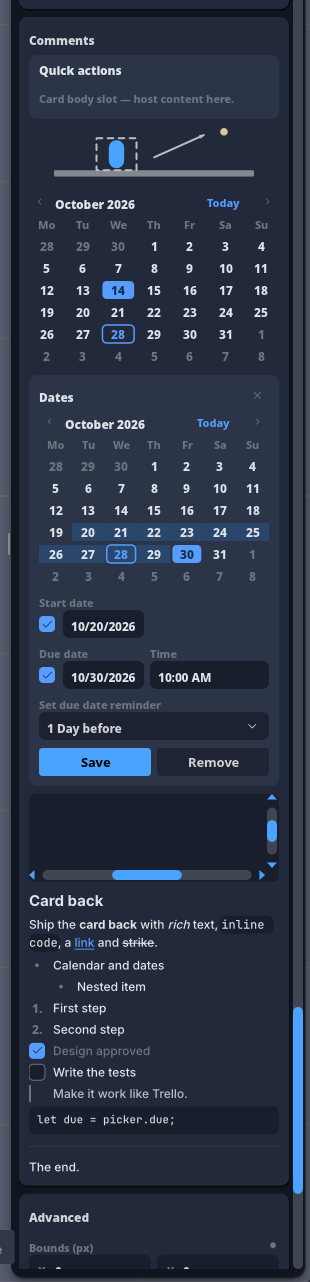
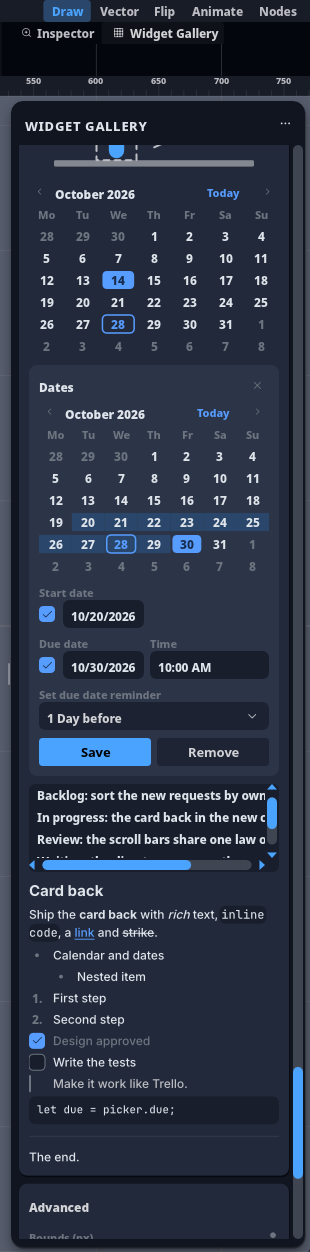
docs(NovaUI): handoff da galeria com o smoke do dono 03/11, as catracas subidas para o integrador julgar e a saída dos portões; foto g6 nova e doc 08 com g6, g7 e g7b

diff --git a/docs/CartoesUI/handoffs/HANDOFF_line_NovaUI_2026-11-03_GALERIA.md b/docs/CartoesUI/handoffs/HANDOFF_line_NovaUI_2026-11-03_GALERIA.md
@@ -1,9 +1,9 @@
 # Handoff — linha `NovaUI`: fundação dos cartões + Widget Gallery em cartões (03/11/2026)
 
-Worktree `Worktrees/line-NovaUI`, branch `line/NovaUI`, HEAD `6e402012fc`, merge-base com `main` = `3a3896a7ab`
-(27 commits à frente). **Não integrada, sem push.** Leitor: a próxima LLM / o integrador.
+Worktree `Worktrees/line-NovaUI`, branch `line/NovaUI`, HEAD do código `60aaaa938d` + o commit deste handoff, merge-base com `main` = `3a3896a7ab`
+(35 commits à frente, contando o deste handoff). **Não integrada, sem push.** Leitor: a próxima LLM / o integrador.
 Plano-mãe: [06](../06_COMO_PORTAR_PARA_O_MAIN.md) §3 · desenho da galeria: [08](../08_galeria_em_cartoes.md).
-O diff contra o merge-base: 304 ficheiros, +21 985 −1 713 (inclui docs e fotos).
+O diff de `60aaaa938d` contra o merge-base: 344 ficheiros, +25 238 −1 836 (inclui docs e fotos).
 
 ## 1 — O que a linha entrega
 
@@ -19,7 +19,7 @@ O diff contra o merge-base: 304 ficheiros, +21 985 −1 713 (inclui docs e fotos
    Trim path, Solo, Gradient; URLs em 08 §1.4) e **11 cartões de sempre** com título de ferramenta.
    - `PH2D_CARDS=0` = a janela flutuante antiga.
    - `PH2D_GALLERY_SMOKE=1` abre a galeria já visível; `PH2D_GALLERY_SMOKE_SCROLL=<px>` segura a rolagem;
-     `PH2D_GALLERY_SMOKE_SIDE=1` abre a linha do efeito. Fotos `maquete/g1..g5`.
+     `PH2D_GALLERY_SMOKE_SIDE=1` abre a linha do efeito. Fotos `maquete/g1..g7b`.
 3. **A fundação continua um DAG** — curas de `7439627882` (o porte fechava três ciclos de módulos de topo e subia
    a catraca widget→interaction 43→44):
    - interaction→panel: a lista publica as linhas (`WidgetStore::set_color_style_rows`), o despacho só lê o store;
@@ -42,11 +42,12 @@ O diff contra o merge-base: 304 ficheiros, +21 985 −1 713 (inclui docs e fotos
 
 | Crate | Porquê |
 |---|---|
-| `ph2d-editor-core` (127 ficheiros) | núcleo dos cartões (porte), partição de `cards.rs`, curas de DAG, `showcase/` |
+| `ph2d-editor-core` (145 ficheiros) | núcleo dos cartões (porte), partição de `cards.rs`, curas de DAG, `showcase/` |
 | `ph2d-tokens`, `ph2d-panel-tokens`, `docs/design/tokens.json`, `tools/ph2d-widget-sync` | tokens `Card*`/`Kanban*`, `derive::card_tone`, bloco gerado do `widget/` |
-| `ph2d-i18n` | `cartoes.rs`, `galeria.rs` (180 chaves), `galeria_reais.rs` (91), `galeria_rive.rs` (36); só inglês |
+| `ph2d-i18n` | `cartoes.rs`, `galeria.rs` (180 chaves), `galeria_reais.rs` (91), `galeria_rive.rs` (36), `galeria_avancado.rs` (46); só inglês |
 | `ph2d-node-motion-verlet-rope` | `corda.rs` (+72 linhas, para o `card-rope`) |
-| `ph2d-panel-painter-layers`, `ph2d-panel-registry-init` | só testes e a secção que quebra o nome (ver §4) |
+| `ph2d-panel-painter-layers`, `ph2d-panel-registry-init` | só testes e a secção que quebra o nome (ver §4 e §4.1) |
+| `ph2d-app-kanban` | a cura do corte de 1 ulp nos chips da frente (ver §4.2); o aspecto aprovado não muda |
 | `Cargo.lock` | crates novas (regenerar, nunca resolver à mão) |
 
 Contratos congelados de CLAUDE.md §6 (`NodeOp`/`OpResolver`/`NodeManifest`, `Tool`, `Vector`): **nenhum tocado**
@@ -55,8 +56,8 @@ Contratos congelados de CLAUDE.md §6 (`NodeOp`/`OpResolver`/`NodeManifest`, `To
 
 ## 3 — Ids, chaves e ícones novos
 
-- `crates/ph2d-panel-widget-gallery/src/`: `ids.rs` 145 · `ids_reais.rs` 156 · `ids_rive.rs` 33 constantes `pub`.
-- `ph2d-i18n`: 180 + 91 + 36 chaves `panel.widget_gallery.*` (+ `cartoes.rs` 111, do porte).
+- `crates/ph2d-panel-widget-gallery/src/`: `ids.rs` 145 · `ids_reais.rs` 156 · `ids_rive.rs` 33 · `ids_avancado.rs` 22 constantes `pub`.
+- `ph2d-i18n`: 180 + 91 + 36 + 46 (`galeria_avancado.rs`) chaves `panel.widget_gallery.*` (+ `cartoes.rs` 111, do porte).
 - `docs/design/icons/card-*.svg`: **40** (28 no porte, 12 acrescentados depois, p.ex. interp-linear/cubic/hold e capsule). Nenhum glifo emprestado: o campo mostra a letra da grandeza (08 §1.3).
 
 ## 4 — Listas e catracas BAIXADAS (medidas, nunca subidas)
@@ -64,8 +65,46 @@ Contratos congelados de CLAUDE.md §6 (`NodeOp`/`OpResolver`/`NodeManifest`, `To
 - `cada_nome_deste_painel_cabe_na_coluna_da_seccao` (painter-layers): coluna 220: 12 → 1; coluna 245: 1 → 0;
   a régua passou a perguntar à secção do PRODUTO (`seccoes::seccao`).
 - Degrau estreito (`1f9360db07`): `inspector` 86 → 84 cortes (letras 84 → 82); `tokens` 2 → 1; `color_equalization` 2 → 1.
-- Nenhuma lista cresceu. Os testes de `a_docked_panel_never_reaches_the_drawing_area` e `a_panel_paints_where_its_tab_says`
+- Nestas curas nenhuma lista cresceu; as subidas estão na §4.1. Os testes de `a_docked_panel_never_reaches_the_drawing_area` e `a_panel_paints_where_its_tab_says`
   passaram a ler a declaração D24 (lista que FLUTUA) com controlo (`listas >= 1`).
+
+### 4.1 — Catracas SUBIDAS, para o integrador julgar
+
+⚠ A §4 fala das listas que BAIXARAM. Estas duas subiram, em `e0572d8336`
+(`crates/ph2d-panel-registry-init/tests/it/quantas_entradas_tem_cada_painel.rs`, `a_altura_de_abertura_de_um_painel_so_encolhe`).
+Nenhuma é secção a nascer aberta; a galeria não está nessa tabela e não é a causa.
+
+| Painel | De → para | Porquê | Grau de prova |
+|---|---|---|---|
+| `inspector` | 1488 → 1507 | a Noto de fábrica (D11) quebra uma legenda em mais uma linha | **medido**: sonda das duas fontes na mesma corrida, Inter 1488 × Noto 1507 |
+| `painter_layers` | 1593 → 1618 | o nome que não cabe quebra em vez de cortar (`1787b8c3ba`), um passo (`1 × ROW_H_PX`) | **atribuído por leitura do commit**, sem medição separada da causa |
+
+- A cura alternativa do `inspector` seria encurtar a legenda; a do `painter_layers` devolveria o corte. Julgue-as.
+- `tokens` voltou a 2302 sem mexer no número: os 3 `card-*` dobram com a família Kanban (`+75 = 3 × 25`).
+- **Lista que cresceu:** `PAINEIS_COM_ID_DERIVADO` ganhou `widget_gallery`. A forma foi olhada antes: os dois botões sem
+  nome são `cards_estilos::botao_de(CARD_FILL)` e `botao_de(CARD_STROKE)`, o ⠿ dos estilos de cor (os dois ids conferem
+  pelo FNV). Vieram com o porte e só a corrida inteira da `ph2d-panel-registry-init` os acusou.
+- **Segunda porta do nome curada:** a lista da galeria lê `WidgetGalleryPanel::TITLE.tr()`, não `tr("panel.widget_gallery.title")`.
+- **Excepção retirada:** `physics` saiu de `COLUNAS_DECLARADAS_POR_PAINEL` em `onde_comeca_o_valor.rs`
+  (`dentro_de_um_troco`): mede 1 coluna (`x = 26`, a grelha), a lista é uma igualdade e menos é acertar.
+  `widget_gallery` fica em 3.
+
+### 4.2 — O vermelho do Kanban: `d14_field_names_are_never_cut_while_they_fit`
+
+- **Medido:** no merge-base verde (árvore exportada, alvo próprio). No HEAD, Inter × Noto no mesmo processo:
+  Inter `Priority: Option 3` inteiro (orçamento `97,56445` = texto `97,56445`); Noto `Priority: Option…` (orçamento
+  `98,12399` × texto `98,124`, **1 ulp**). ⇒ os edits de `card_ink`/`date_picker`/`paint_card` de `d1c9126d41` não
+  são a causa: a Noto (D11) só destapou o defeito.
+- **Mecanismo:** o chip da frente mede-se (`texto + respiro`) e o pintor recalculava o orçamento por subtracção
+  (`r.x + r.w − respiro − tx`), que perde 1 ulp conforme onde a medida cai. A elisão compara `<=` e corta. Era latente
+  em qualquer fonte: com a cura desligada a varredura acusa as 10 primeiras opções na Noto e 7 na Atkinson.
+- **Cura, na lógica de encaixe do próprio Kanban:** `FieldAt::room` leva ao pintor a largura MEDIDA; o chip de rótulo
+  ganhou `front::chip_room` (a mesma família, mesma subtracção). Geometria e aspecto iguais; o nome inteiro é o que a
+  Noto já pedia.
+- **Gates novos:** `d14_a_chip_never_cuts_the_text_that_sized_it_in_any_font` (varre `UiFont::ALL` × 30 opções, porque
+  o ulp depende da medida) e `a_label_chip_never_budgets_less_than_the_name_that_sized_it` (com controlo).
+- **Provas de mutação (4/4 sangraram):** `room` volta à subtracção (`d14_field_names` + a varredura) · `chip_room` volta
+  à subtracção · `hugging_rects` sem o `trim_end` · sem o `paint_demo_rows`.
 
 ## 5 — Lacunas conhecidas
 
@@ -73,12 +112,34 @@ Contratos congelados de CLAUDE.md §6 (`NodeOp`/`OpResolver`/`NodeManifest`, `To
 - Camera: o alvo por arrastar da Hierarchy é só uma **dica** na galeria.
 - Números de Brush, Image, Audio e Script são **fictícios** (os do código real estão no 08 §1.3).
 - `CAN_FLOAT = false` faz o `PH2D_CARDS=0` mostrar também uma aba.
+- **Metadata do Advanced sem entradas aninhadas:** nenhuma entrada de exemplo pede filhos, e o nesting não entrou.
+- **Coluna estreita:** Metadata e Custom properties põem o valor na linha de baixo, em vez de cortar. É a decisão, não
+  uma falha, mas a coluna estreita fica mais alta.
+- **As barras da amostra do Comments não são interactivas:** no cartão mostram a rolagem `0` sobre o tamanho real das
+  linhas (`demo_rows_content`); arrastá-las não mexe nas linhas. Rolar de verdade é o widget nas listas reais.
 - **Mola do Kanban NÃO extraída** (D19): `ph2d-card-stack` existe, mas o `ph2d-app-kanban` ainda tem a sua
   própria — família 3 de 06 §3 pendente.
 - `card-rope` portado **sem consumidor** até ao Inspector/Bones.
 - Ainda por portar (linhas seguintes): famílias 5 (Bones) e 6–10 (Inspector, estilos de cor do Vector, cola da shell,
   cenas de smoke, testes `o_*`/`os_*`) — prompts em [`../PROMPT_janela_Bones.md`](../PROMPT_janela_Bones.md) e
   [`../PROMPT_janela_InspectorVector.md`](../PROMPT_janela_InspectorVector.md).
+
+## 5.1 — Smoke do dono 03/11
+
+Palavras dele: *«Dates parece fora do novo padrão. Card advanced tb parece fora do novo padrão. Slider Horizontal
+diferente do vertical que é o padrão. Em cardback falta melhor coerência do design. Card Render poderia melhorar muito
+seu layout e widgets. Na dúvida ver como Figma e Rive fazem. Restante me agradou muito e o smoke do restante está OK»*
+
+| Item | O que foi feito | Commit |
+|---|---|---|
+| Dates | num cartão (`card_body`): rótulos `LABEL_*`, caixas `FIELD_H` que medem a data e nunca a cortam (a hora fica com o resto ou desce), marca `CHECK_BOX` única (`paint_card_check`), chip do cartão, Save/Remove lado a lado, superfície `KanbanCardRaised`; Calendar por `card_ink::tinta` | `d1c9126d41` |
+| Card Advanced | `Bounds`, `Rotation`, grelha das 32 camadas nos tons do cartão, `Slice mode`, `Metadata` à Figma e `Custom properties` vivas; na coluna estreita o valor desce (`e0572d8336`) | `00b53b114f`, `e0572d8336` |
+| Slider Horizontal | as duas barras saem de UMA lei (`AxisBar::of_theme`): calha da `track_rect`, `Bg3` + `thumb_color`, setas e raio iguais, eixos trocados | `d1c9126d41` |
+| Card back | `RichEditor` com `Regua::Cartao`: uma coluna de marcadores, títulos Md/Base/Sm, código sobre `CardField`, traço fino da citação, barra Bare com os doze botões. Depois: linhas de amostra na caixa das barras (`paint_demo_rows`) e o fundo do código inline justo a cada linha visual (`hugging_rects`) | `d1c9126d41` + o fecho |
+| Card Render | à exportação do Figma/Rive: `Format` + `Quality`, estado com `%` e barra fina, medidores L/R deitados com escala em dB, etiquetas que dizem o que são, corrida fictícia por quadro, `Cancel` só quando há o que cancelar | `00b53b114f` |
+
+Fora de um cartão nada muda (testes de controlo e os do verso do Kanban). Fotos: `maquete/g6`, `g7`, `g7b`. **A rodada
+destas curas ainda não passou pelo olho do dono:** o «OK» dele vale para o restante.
 
 ## 6 — O que só a integração apanha
 
@@ -87,14 +148,20 @@ e dos portões tocados. O schema não mudou nesta linha (nada a recontar).
 
 ## 7 — Saída dos portões
 
-Rodada de 03/11 sobre a árvore do fecho da galeria.
+Rodada de 03/11 sobre a árvore de `60aaaa938d`.
 
-- **Verdes:** `rustfmt --check` nos 191 `.rs` do diff; `check-standalone-optional`; `check-workflow-packages`; `ph2d-card-stack`, `ph2d-card-rope` e `ph2d-panel-widget-gallery` inteiros (48/48 na última corrida); `ph2d-panel-registry-init` `nenhum_rotulo` 14/14, `the_window_menu`, `every_docked_panel_paints_where_its_tab_says`; os portões por nome da `ph2d-editor-core` (LOC, DAG, ids, wiring, cores, px, a11y, z-walk, `the_shell_only_shrinks`); `ph2d-host-desktop` (roda e `every_panel_the_registry_ships_reaches_the_binary`); `ph2d-panel-painter-layers` `cada_nome_deste_painel_cabe_na_coluna_da_seccao`; `ph2d-panel-tokens` `dtcg`.
-- **Vermelhos que NÃO são desta linha (árvore combinada, a medir pelo integrador):** `clippy --workspace --all-targets -D warnings` para em `ph2d-panel-wet-tuning/tests/it/seam.rs:125`, `ph2d-paint-tinta/tests/it/meio.rs:30,88` e `ph2d-app-motion/src/motion_shape_placa_quadro.rs:307` (ficheiros com diff vazio contra o merge-base). `cargo machete` sai 1 em dependências que o diff não toca.
-- **Shell:** `188 892`, delta 0 contra o merge-base.
-- **Smoke:** `cargo build -p ph2d-host-desktop --profile smoke`, 2.ª corrida: `Finished` em 0,36 s, zero `Compiling`.
+- **Verdes:** `rustfmt --check --edition 2024 --config skip_children=true` nos 223 `.rs` do diff; `ph2d-panel-widget-gallery` inteiro (58/58); `ph2d-panel-registry-init` inteiro (158 passaram, 33 ignorados); `ph2d-editor-core` por nome (`card`, `icon`, `architecture_widget`, os três de LOC, `the_foundation_modules_form_a_dag`, `every_non_literal_hash_is_named`, `hit_indexed_ids_are_registered`, `no_hex_color_literals_in_widget_or_screens`, `no_magic_numeric_in_widget_or_screens`, `every_widget_file_wires_a11y`, `every_label_this_crate_paints_comes_from_the_string_table`, `no_panel_surface_wears_the_section_card_tone`, `every_registered_panel_is_reachable_by_the_z_order_walk`, `the_shell_only_shrinks`, `calendar`, `date_picker`, `rich_editor`, `scroll`: 163 + 59 passaram); `ph2d-app-kanban` por nome (`d14`, `calendar`, `card_back`, `a_label_chip`: 5 passaram). A corrida da `ph2d-panel-registry-init` foi antes de uma última edição só de forma em `demo_bars` (mesma conta, mudou a linha do `LITERAL-PX-OK`); depois dela correram `no_magic_numeric_in_widget_or_screens`, `the_horizontal_bar_is_the_vertical…` e `the_scroll_sample…`.
+- **Vermelhos que NÃO são desta linha:** `clippy --workspace --all-targets --keep-going -D warnings` acusa só `ph2d-panel-wet-tuning/tests/it/seam.rs`, `ph2d-paint-tinta/tests/it/meio.rs` e `ph2d-app-motion/src/motion_shape_placa_quadro.rs` (fora do diff contra o merge-base); zero nos ficheiros da linha. `cargo machete` da rodada anterior não foi repetido.
+- **Shell:** `shells/desktop` fora do diff contra o merge-base.
 - **Impactados e suíte completa ficam para a integração.**
-- `agent-loop-profile`: paralelismo 1,09/passo (alvo ≥ 1,5) · respostas por sessão 154 · `test:check` 2,6x (alvo ≤ 1) · edições sem conferir 1,6 % · contexto relido 223 mil · contexto no início 61 mil.
+- `agent-loop-profile`: paralelismo 1,15/passo (alvo ≥ 1,5) · respostas por sessão 143 · `test:check` 2,6x (alvo ≤ 1) · edições sem conferir 1,3 % · contexto relido 224 mil · contexto no início 61 mil.
+- `target/*/incremental` **não** foi apagado: faria o próximo smoke recompilar. Apague-o ao arrumar a linha.
+- **Smoke:** `cargo build -p ph2d-host-desktop --profile smoke`, 2.ª corrida:
+
+```
+▸ linha line_novaui · CPU ≤ 1600% de 32 núcleos · mem ≤ 24G · prazo 1800s
+    Finished `smoke` profile [optimized] target(s) in 0.20s
+```
 
 ## 8 — Smoke para o dono
 

diff --git a/docs/CartoesUI/08_galeria_em_cartoes.md b/docs/CartoesUI/08_galeria_em_cartoes.md
@@ -191,7 +191,7 @@ Export (acende «Exported»), dobrar um cartão, arrastar um cartão para outra 
 «Use» da Image, escrever na Target da Camera, «+»/«−» das regras, Water/Oil, Fire, os filhos do Solo, a pega da
 curva.
 
-Fotos em `maquete/`: `g1_galeria_topo` · `g1b_galeria_ferramentas` (rolagem 1460, com `PH2D_GALLERY_SMOKE_SIDE=1`: a linha do efeito aberta) · `g4_galeria_casos_reais` (2700) · `g4b_…` (4250) · `g4c_…` (5100) · `g5_galeria_rive` (5950) · `g2_galeria_meio` (6950) · `g2b_galeria_meio` (7700) · `g3_galeria_fim` (9400) · `g6_dates_e_cardback` (8700: datas, barras e verso na lei do cartão, smoke 03/11), com
+Fotos em `maquete/`: `g1_galeria_topo` · `g1b_galeria_ferramentas` (rolagem 1460, com `PH2D_GALLERY_SMOKE_SIDE=1`: a linha do efeito aberta) · `g4_galeria_casos_reais` (2700) · `g4b_…` (4250) · `g4c_…` (5100) · `g5_galeria_rive` (5950) · `g2_galeria_meio` (6950) · `g2b_galeria_meio` (7700) · `g3_galeria_fim` (9400) · `g6_dates_e_cardback` (9000: datas, barras com linhas de amostra e verso na lei do cartão, smoke 03/11) · `g7_advanced` (rolagem ao fim) · `g7b_render` (8120: parado × quadro 42), com
 `PH2D_GALLERY_SMOKE_SCROLL=<px>` a segurar a rolagem (o evento sintético não chega à sessão virtual).
 Os corpos de sempre pintam com a tinta do cartão publicada (`card_ink::com`): a janela flutuante
 (`PH2D_CARDS=0`) não publica nada e não muda. Dentro do corpo os de sempre seguem a lei do
